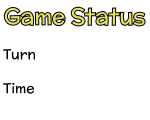
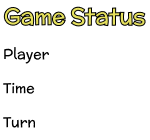
add turn

diff --git a/gui/game_screen.py b/gui/game_screen.py
@@ -89,6 +89,7 @@ def main(screen, active, boardSize, player_default, txt):
     terminalState = False
     possible_moves = []
     time_start = time.time()
+    turn = 1
     # Game loop
     while running:
         screen.fill((53, 50, 50))
@@ -96,10 +97,10 @@ def main(screen, active, boardSize, player_default, txt):
 
         # Setup status board
         game_status = pygame.image.load(os.path.join(os.path.dirname(os.getcwd()), "img", "collection", "game_status.png"))
-        game_status_pos = Rect(screen.get_width()/2+350, screen.get_height()/2-setup.get_status(), 150, 120)
+        game_status_pos = Rect(screen.get_width()/2+350, screen.get_height()/2-setup.get_status(), 150, 140)
         screen.blit(game_status, game_status_pos)
 
-        # Turn
+        # player turn
         green_turn = pygame.image.load(os.path.join(os.path.dirname(os.getcwd()), "img", "collection", "green_pawn.png"))
         green_turn = pygame.transform.scale(green_turn, (30, 30))
         red_turn = pygame.image.load(os.path.join(os.path.dirname(os.getcwd()), "img", "collection", "red_pawn.png"))
@@ -174,11 +175,13 @@ def main(screen, active, boardSize, player_default, txt):
                 pygame.display.update()
                 GM.minimaxMove()
                 GM.nextTurn()
+                turn += 1
             # Mode permainan adalah Player vs BOT Minimax Local Search
             elif (active == 2):
                 pygame.display.update()
                 GM.minimaxLocalSearchMove()
                 GM.nextTurn()
+                turn += 1
         
         # Ketika mode permainan adalah BOT Minimax vs BOT Minimax Local Search
         if (active == 3):
@@ -186,10 +189,12 @@ def main(screen, active, boardSize, player_default, txt):
                 pygame.display.update()
                 GM.minimaxMove()
                 GM.nextTurn()
+                turn += 1
             else:
                 pygame.display.update()
                 GM.minimaxLocalSearchMove()
                 GM.nextTurn()
+                turn += 1
 
         # Time
         time_run = math.floor(time.time() - time_start)
@@ -197,6 +202,11 @@ def main(screen, active, boardSize, player_default, txt):
         time_to_gui = FONT.render(time_def, True, Color(0,0,0))
         time_pos = Rect(screen.get_width()/2+400, screen.get_height()/2-setup.get_status()+80, 30, 30)
         screen.blit(time_to_gui, time_pos)
+
+        # Counting turn
+        c_turn = FONT.render(str(turn), True, Color(0,0,0))
+        c_turn_pos = Rect(screen.get_width()/2+400, screen.get_height()/2-setup.get_status()+115, 30, 30)
+        screen.blit(c_turn, c_turn_pos)
 
         # Event
         for event in pygame.event.get():
